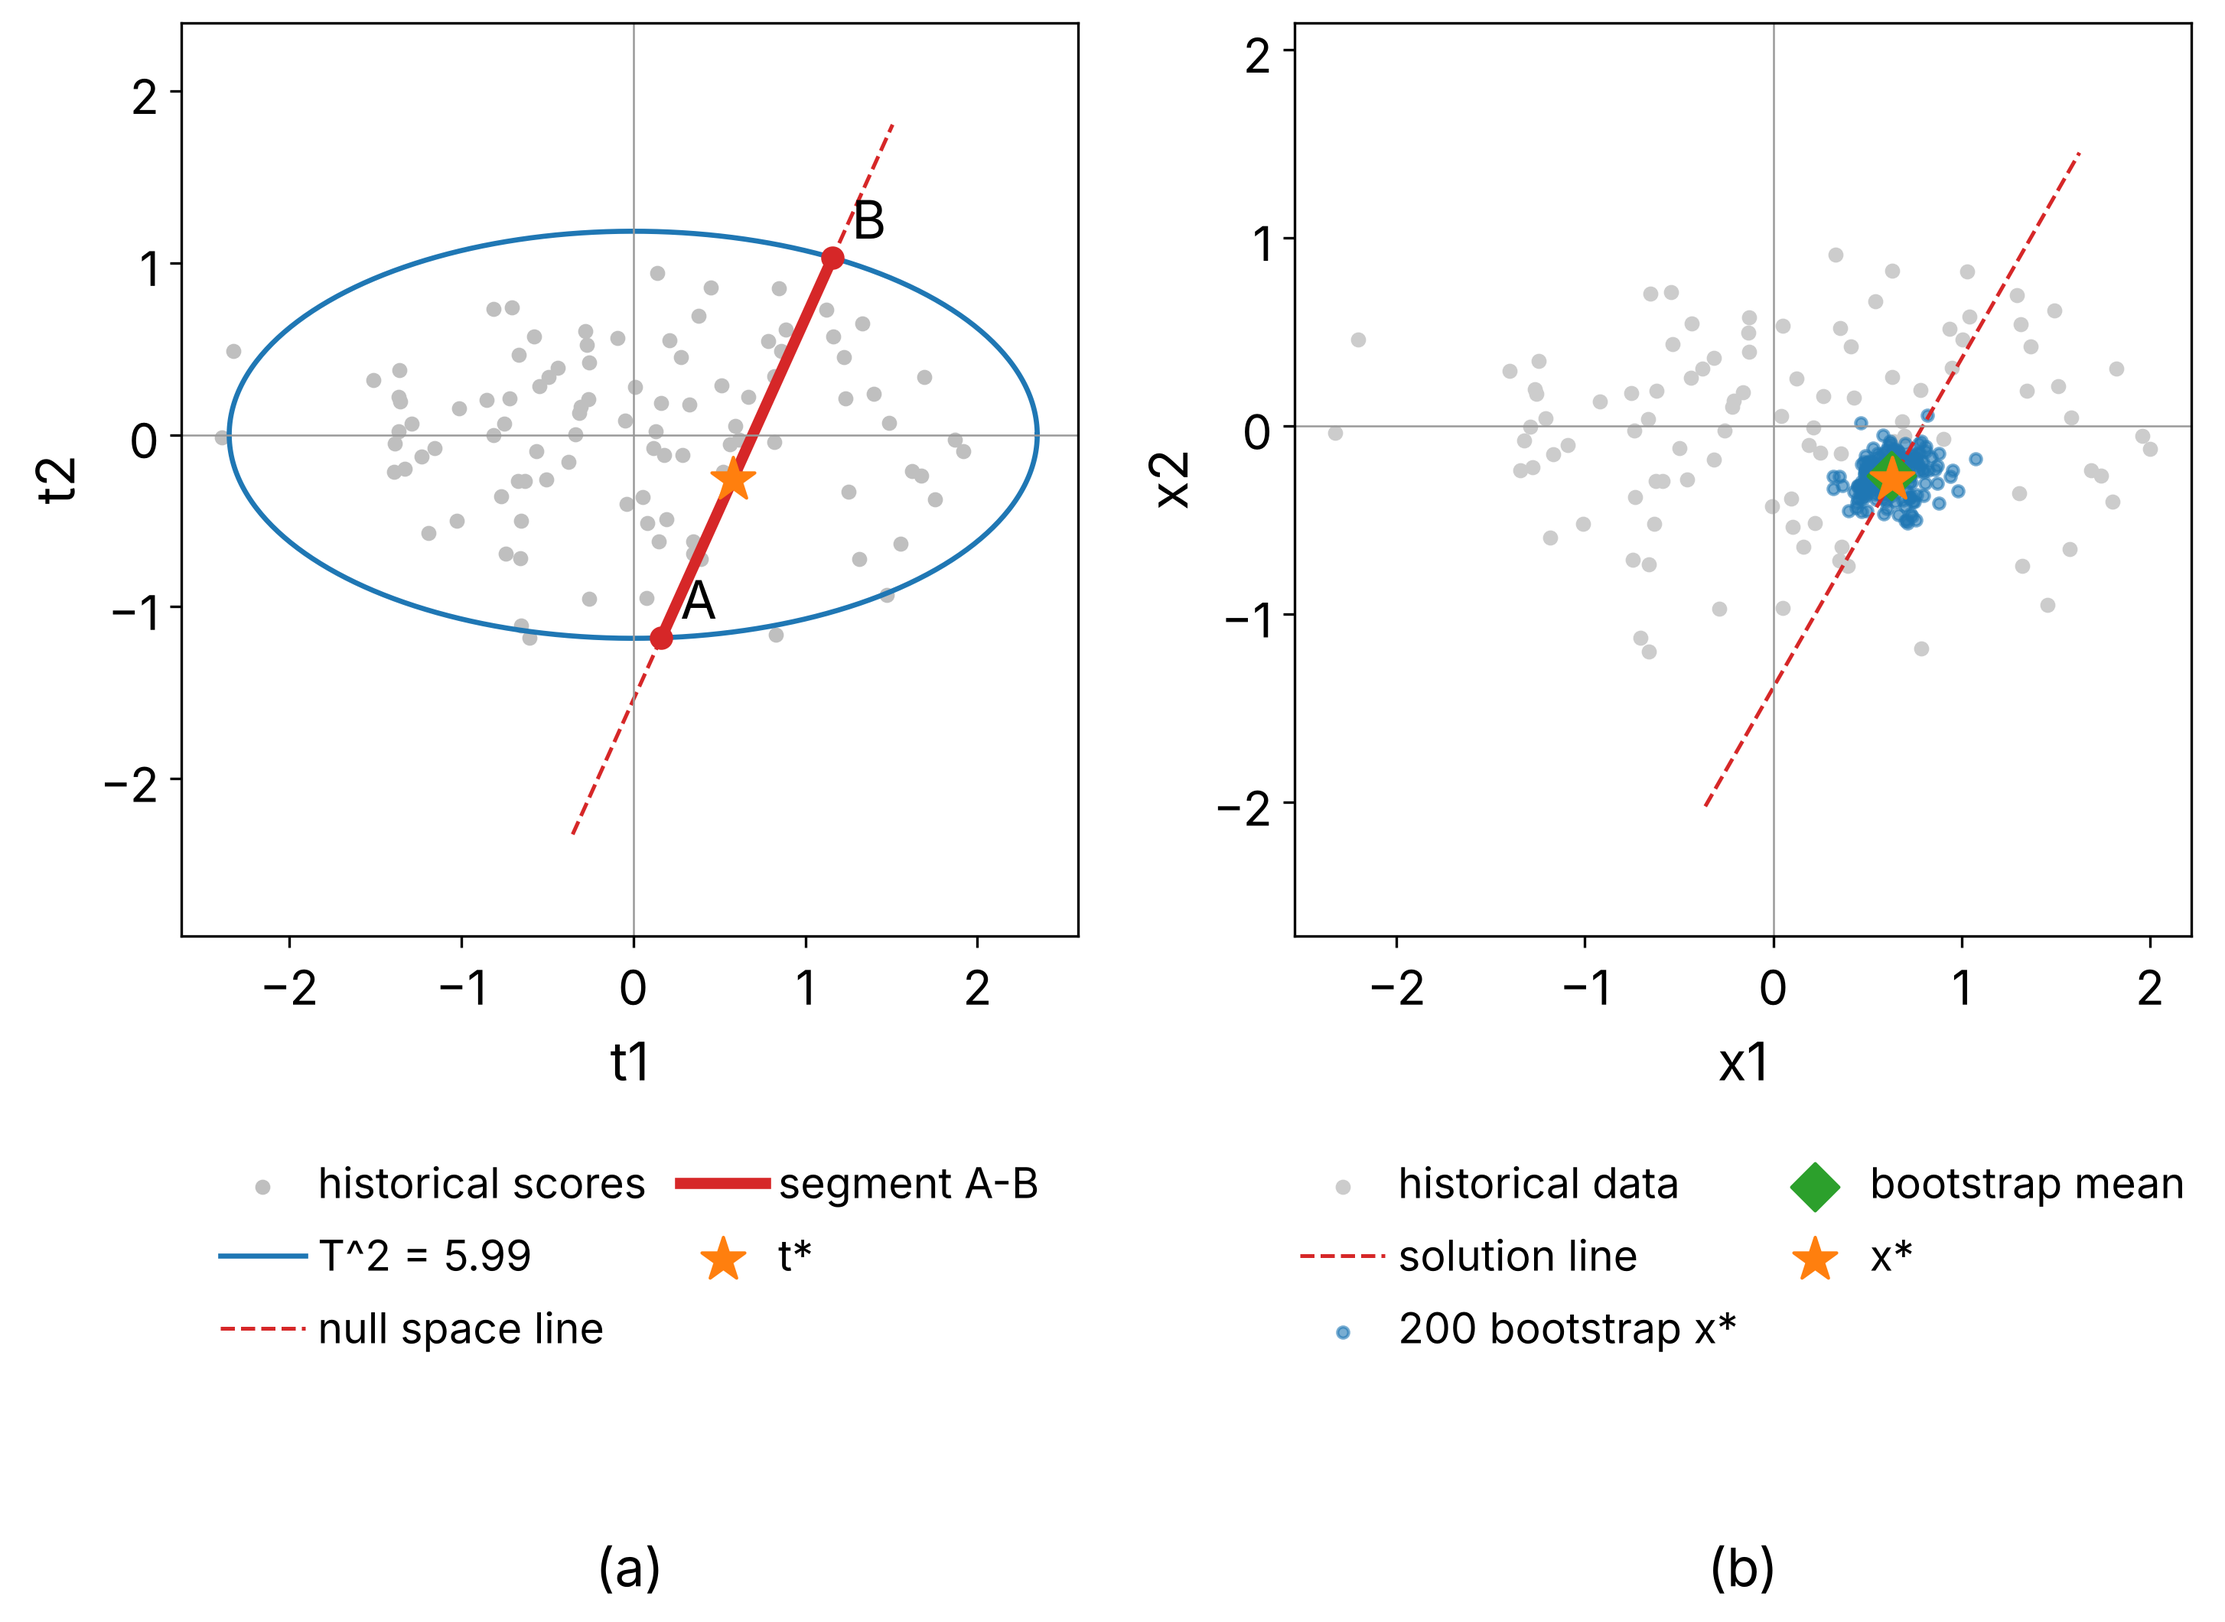
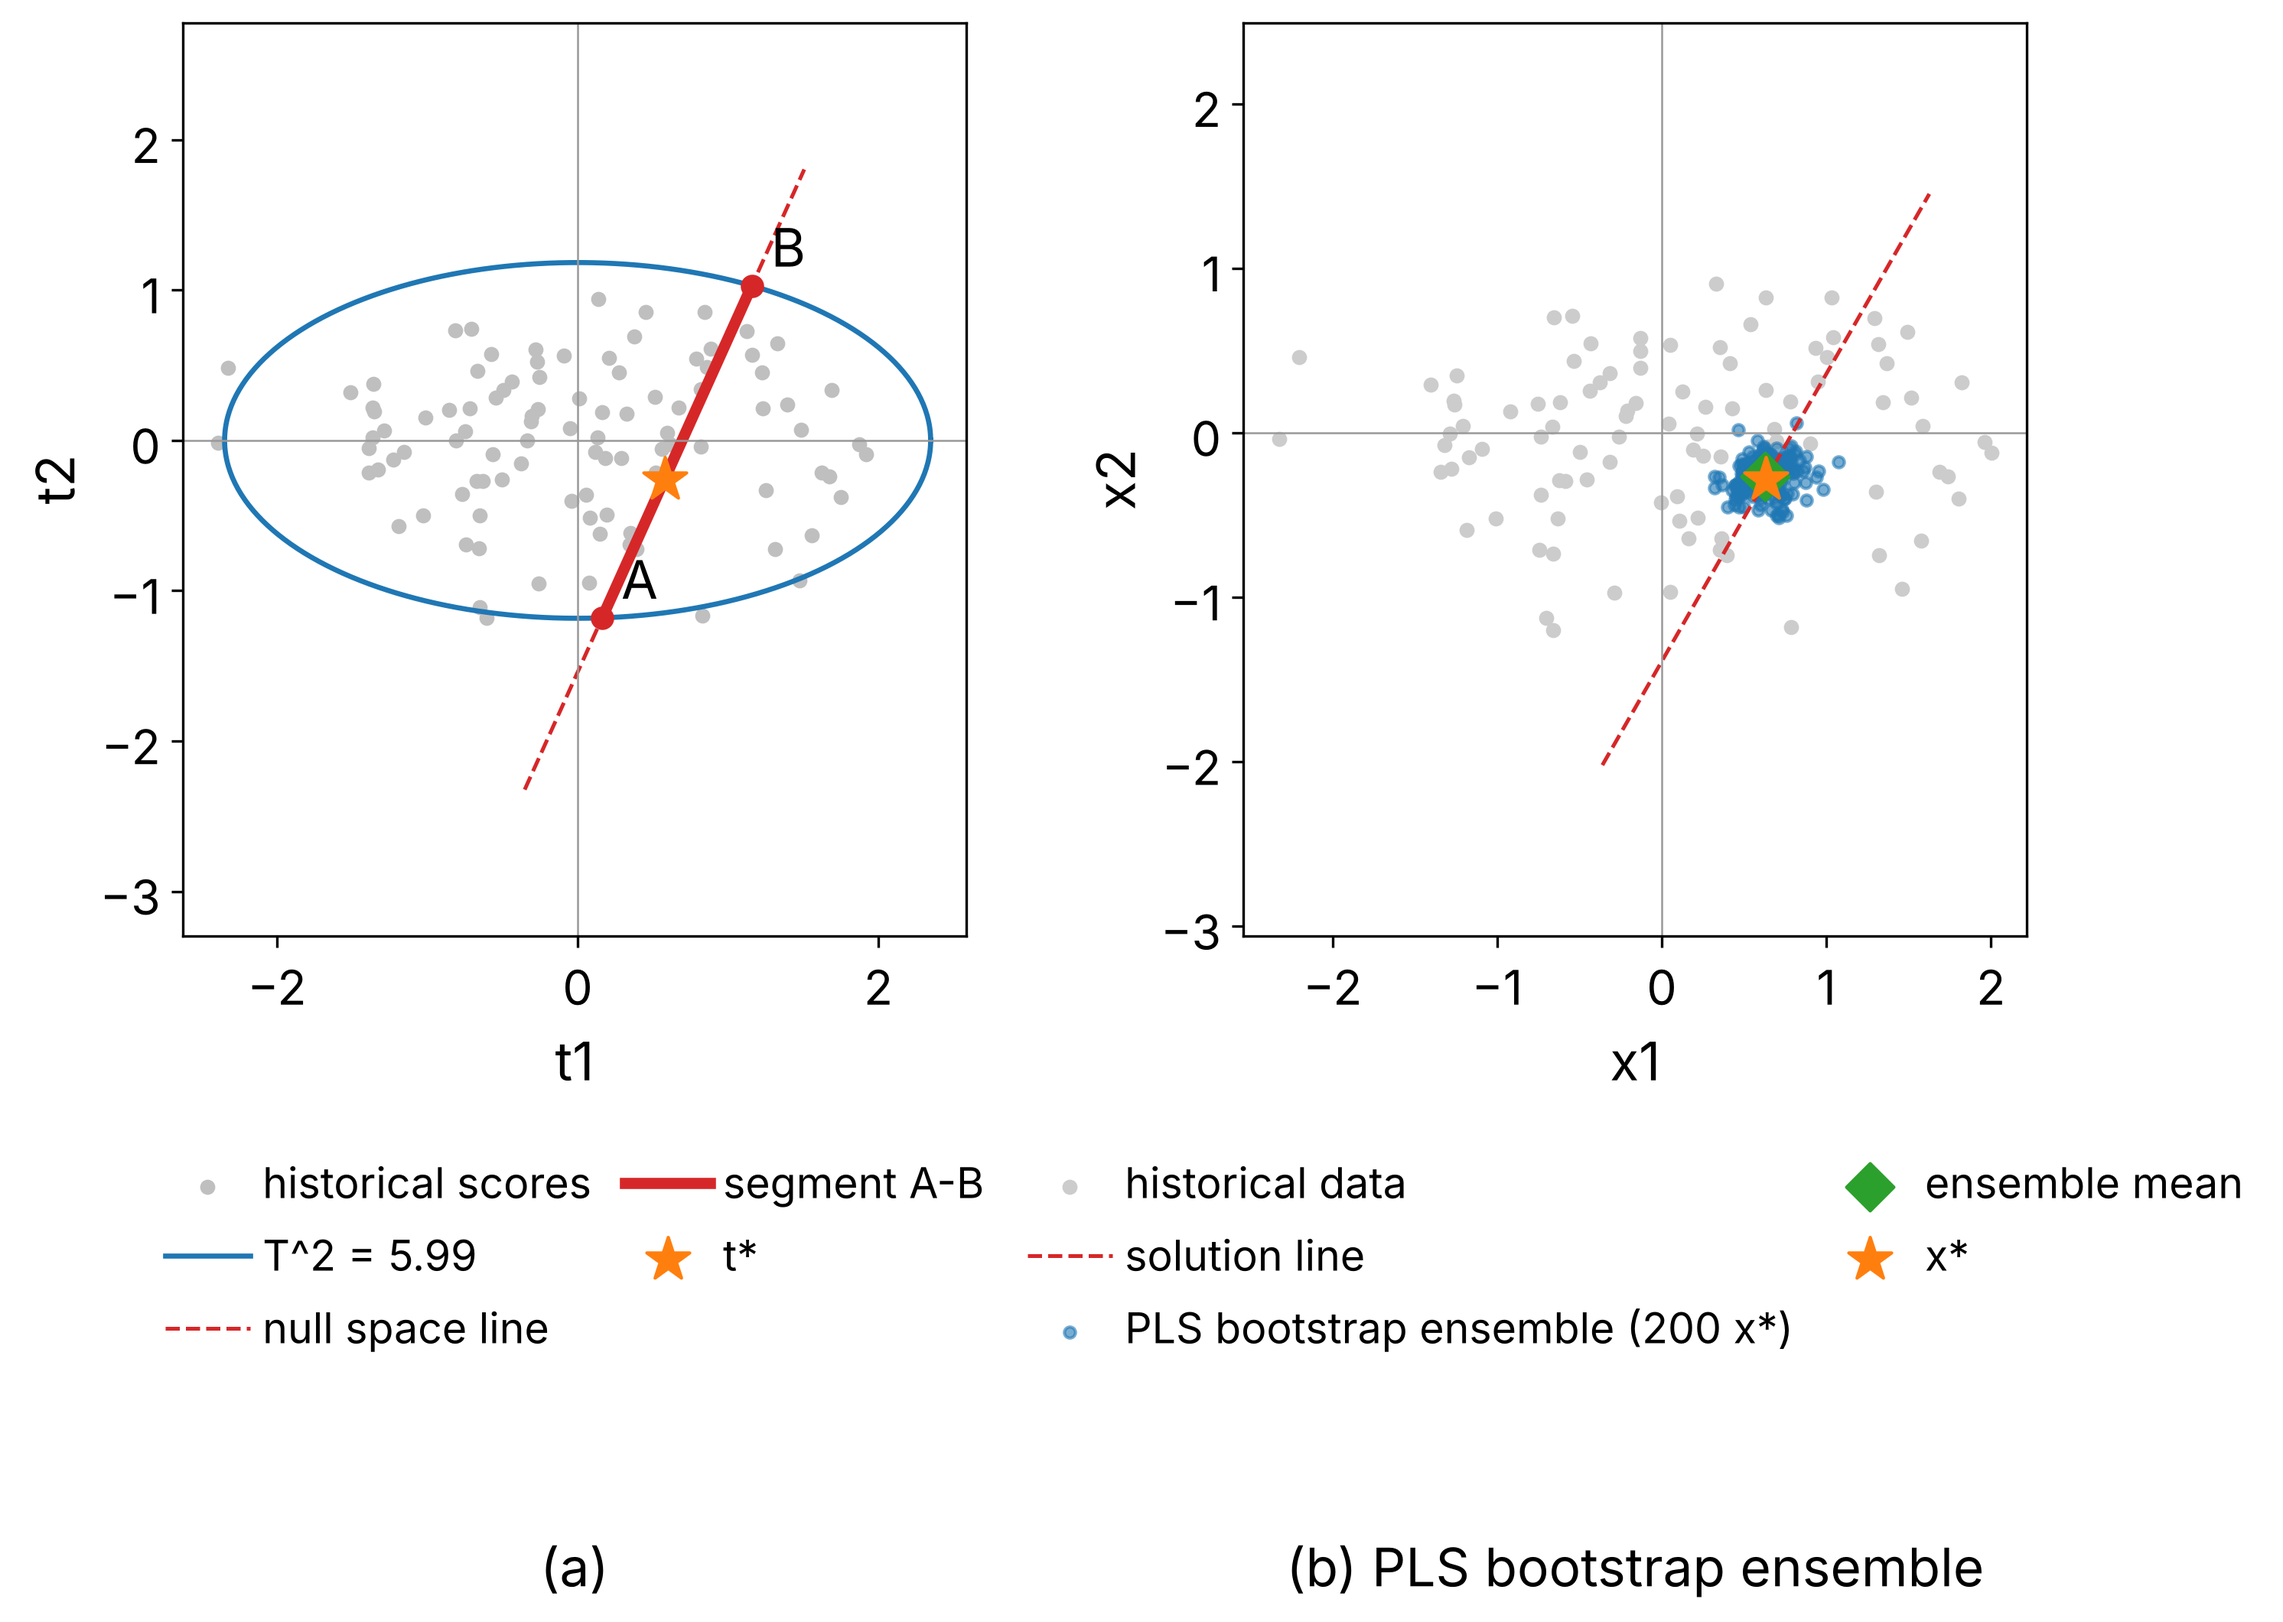
Label the PLS bootstrap ensemble in Fig 3 (b)
Claude-Session: https://claude.ai/code/session_01GkUUsD7iqvuHXk9r2Ngc7Y

diff --git a/Models/Inverse-Problem/inverse_problem_fig.py b/Models/Inverse-Problem/inverse_problem_fig.py
@@ -8,7 +8,7 @@ Changelog:
     0.15.0: Add fig_3, the null space and the T^2 validity region in the score plane.
 """
 __author__ = 'yRocket'
-__version__ = "0.19.1.2026.11.1"  # Semantic Versioning: Major.Minor.Patch.Date(YYYY.M.D)
+__version__ = "0.19.2.2026.11.1"  # Semantic Versioning: Major.Minor.Patch.Date(YYYY.M.D)
 
 import argparse
 import pathlib
@@ -144,9 +144,9 @@ def fig_3(out_folder: pathlib.Path, n_boot: int = 200) -> pathlib.Path:
     ax.plot(input_line[:, 0], input_line[:, 1], color=COLORS[3], linewidth=1.2, linestyle='--',
             label='solution line')
     ax.scatter(x_boot[:, 0], x_boot[:, 1], s=12, color=COLORS[0], alpha=0.6,
-               label=f'{n_boot} bootstrap x*')
+               label=f'PLS bootstrap ensemble ({n_boot} x*)')
     ax.scatter([x_ensemble[0]], [x_ensemble[1]], s=110, marker='D', color=COLORS[2], zorder=4,
-               label='bootstrap mean')
+               label='ensemble mean')
     ax.scatter([x_single[0]], [x_single[1]], s=200, marker='*', color=COLORS[1], zorder=5, label='x*')
     ax.set_xlabel('x1', fontsize=font_size(text_scale))
     ax.set_ylabel('x2', fontsize=font_size(text_scale))
@@ -161,7 +161,7 @@ def fig_3(out_folder: pathlib.Path, n_boot: int = 200) -> pathlib.Path:
 
     fig.tight_layout(rect=(0.0, 0.08, 1.0, 1.0))
     panel_caption(fig, [axes[0]], '(a)', y=0.0)
-    panel_caption(fig, [axes[1]], '(b)', y=0.0)
+    panel_caption(fig, [axes[1]], '(b) PLS bootstrap ensemble', y=0.0)
     for text in fig.texts:
         text.set_fontsize(font_size(text_scale))
     out_path = out_folder / 'score-plane-null-space.png'
